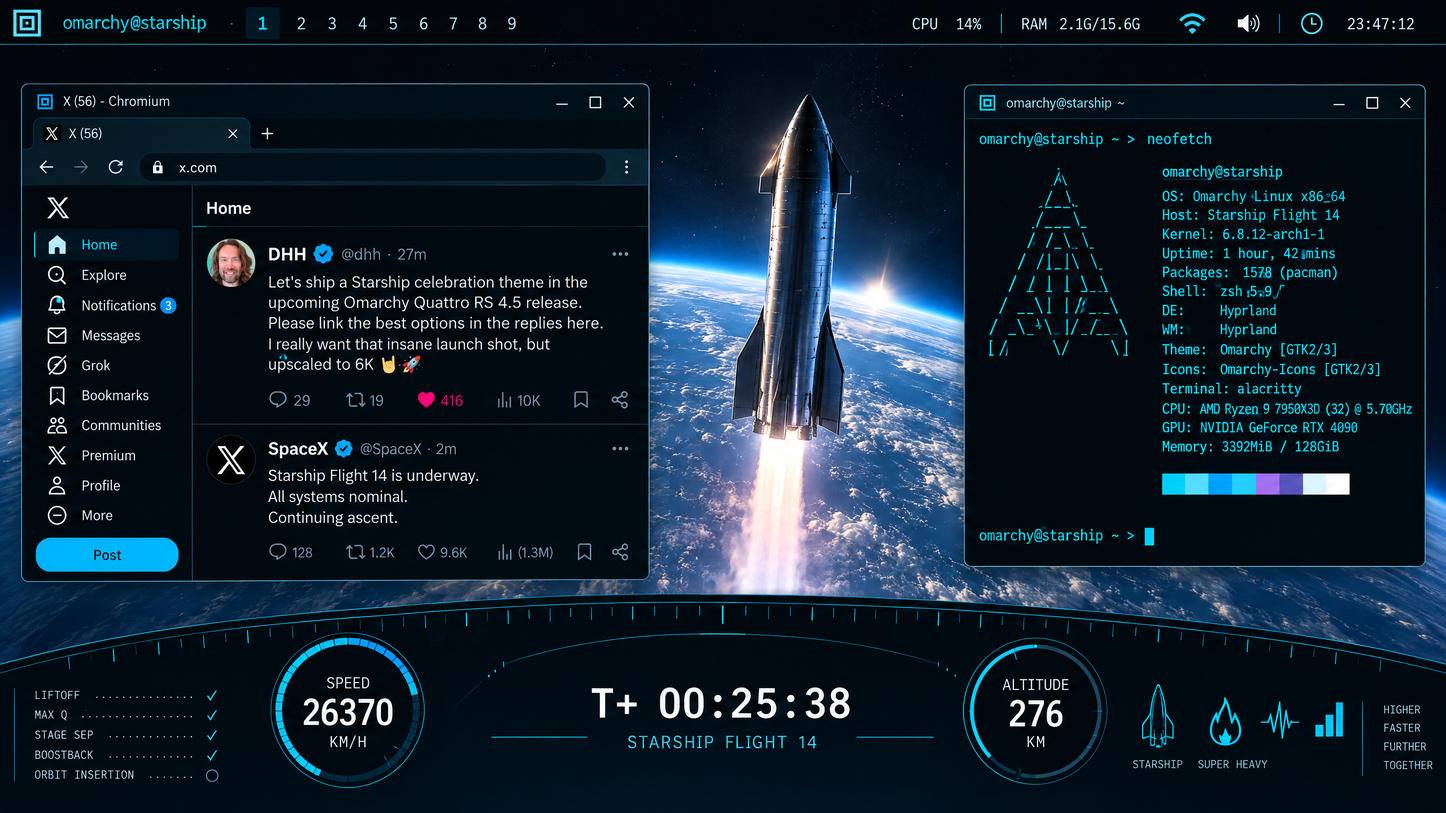
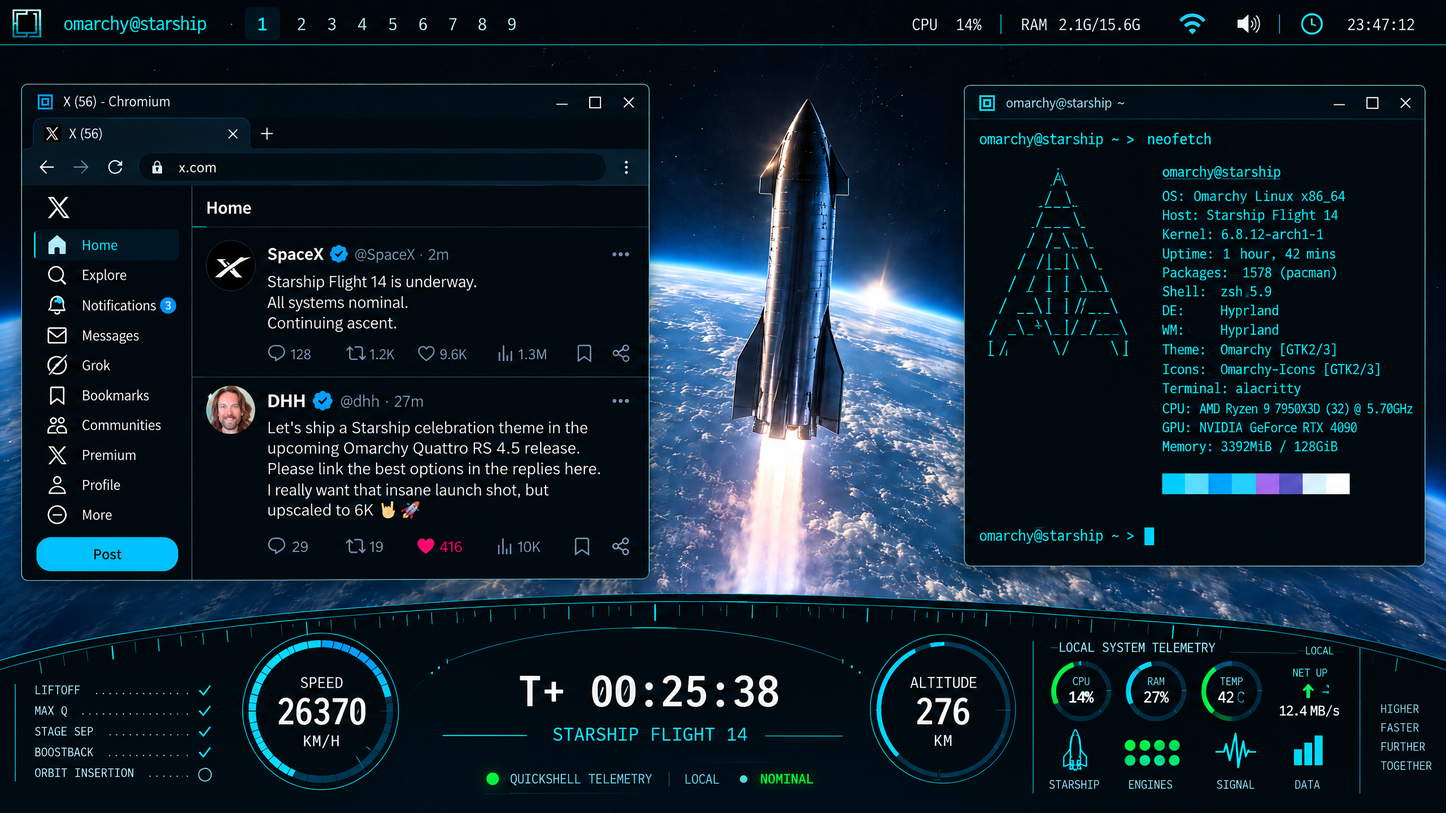
Replace theme preview with telemetry desktop mockup

diff --git a/README.md b/README.md
@@ -2,6 +2,10 @@
 
 A dark aerospace theme for Omarchy inspired by Starship mission-control consoles: orbital blues, cyan instrumentation, restrained amber status lights, and high-contrast terminal text.
 
+![Omarchy Starship desktop preview](preview.png)
+
+This preview shows the intended complete experience: the Starship desktop theme combined with the optional local-system telemetry HUD.
+
 ## Install
 
 ```bash
